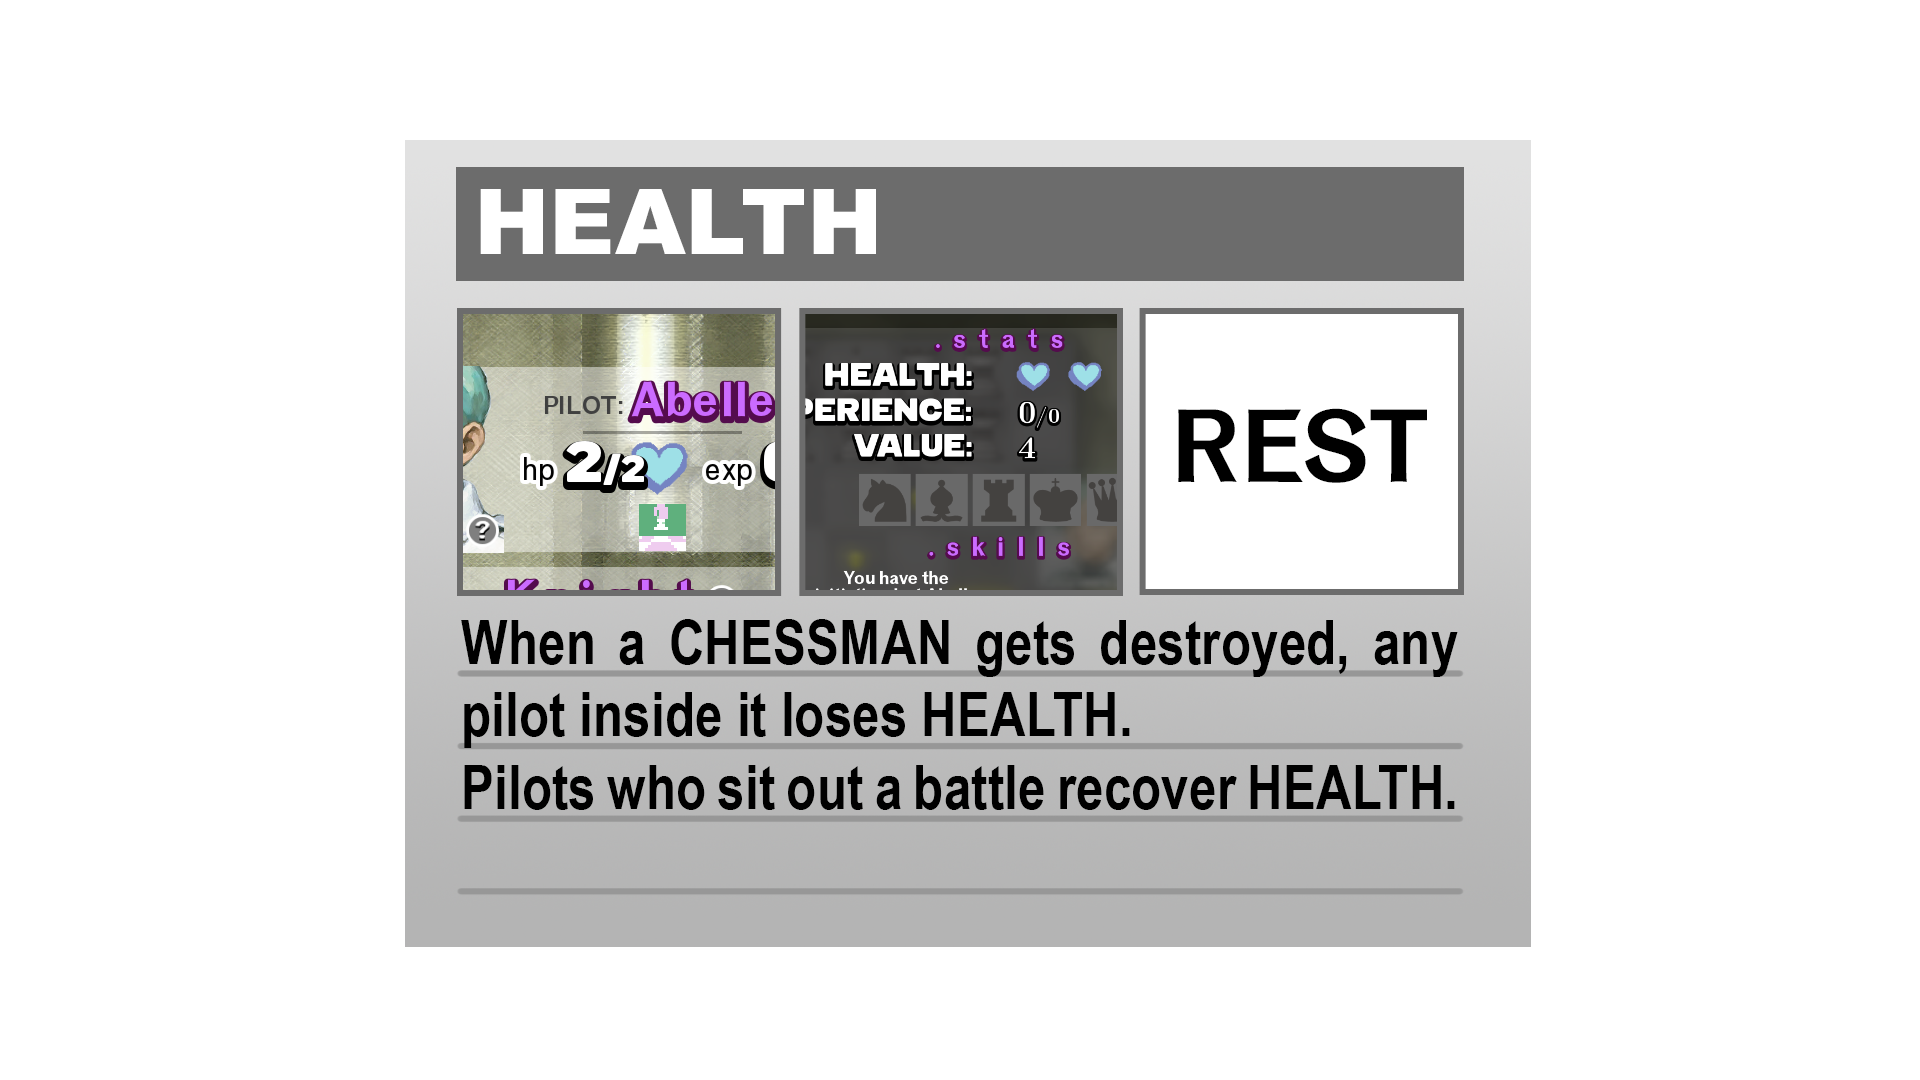
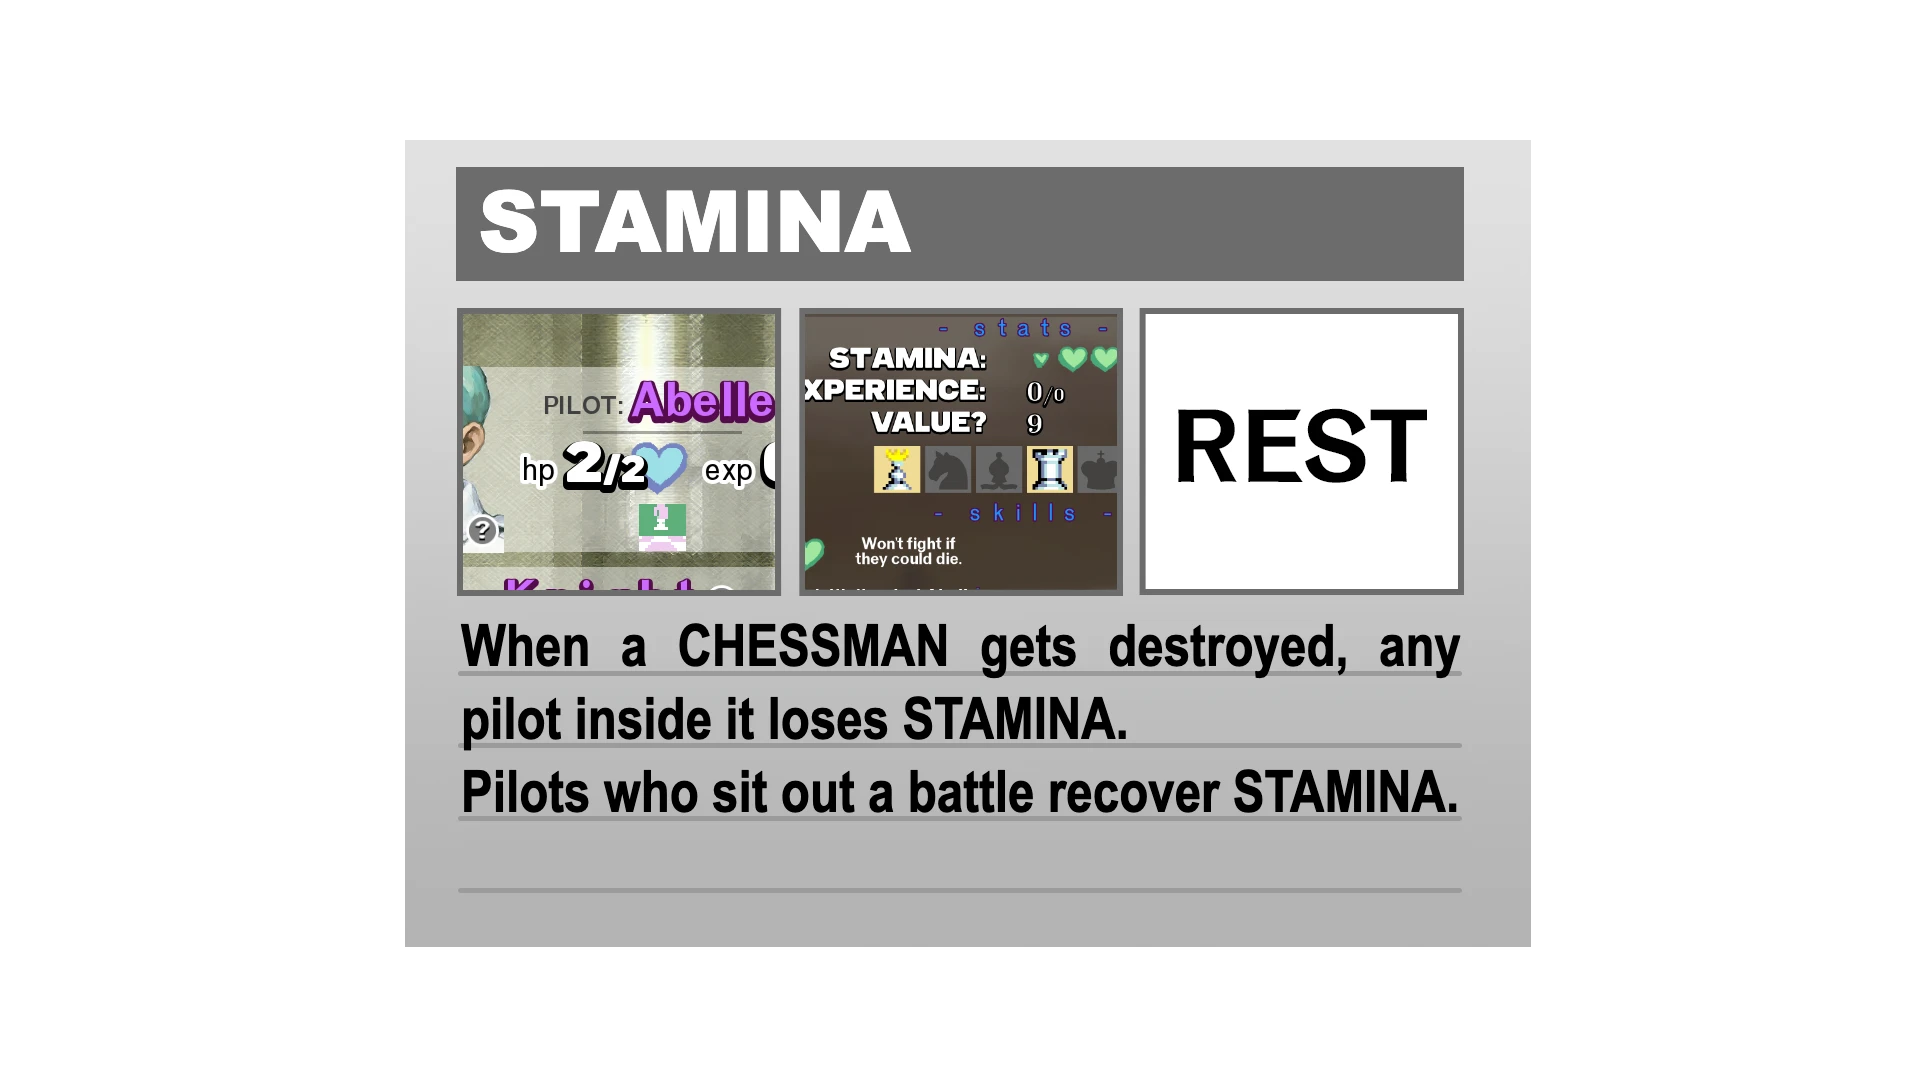
loyalty and trust

Changed region(s): [[0.25, 0.275, 0.7812, 0.7639], [0.25, 0.1528, 0.4688, 0.2444]]

diff --git a/ai_prompt/renforge_playtesting.md b/ai_prompt/renforge_playtesting.md
@@ -1,0 +1,43 @@
+# Playtesting Fairylion Gambit with an AI agent (RenForge)
+
+Notes for an AI agent that drives the game through the RenForge MCP. Tested 2026-11-24 with RenForge 0.7.6 and Ren'Py 8.6.1 on a Retina Mac.
+
+## Launch
+
+`renforge_launch(project_path=<this folder>, version="8.6.1", savedir="temporary")`, then poll `renforge_launch_status`.
+
+- `savedir="temporary"` keeps the real saves (`game/saves`, `~/Library/RenPy/...`) untouched.
+- The first launch downloads the 8.6.1 SDK (about 1 min). The main menu is ready about 2 min after launch.
+- `renforge_jump(target="l_map_0_0", version="8.6.1", savedir="temporary")` restarts the game process at a label in about 6 s. All state is reset: `g.progress` is 0 and `g.items['undo']` is 0, because the map screen's +3 is skipped.
+- Finish with `renforge_stop`, which removes the files RenForge injected into `game/`.
+
+## Input that works
+
+- **Pieces and moves:** `renforge_click_element(element_id="piece_e7")`, then `element_id="move_e3"`.
+- **Buttons** (menu, map flag, say screen): mouse clicks don't work, because they land in the wrong place on a Retina screen and still return ok. Use `renforge_hover_element(element_id=...)` with ids from `renforge_list_ui_elements`, then `renforge_eval("renpy.queue_event('button_select')")`.
+- **Dialogue:** `renforge_advance` works before a battle starts. After you click a piece, keyboard focus stays on that piece, so `advance` does nothing on in-battle dialogue. Hover the `say` screen's button first, then use `renforge_eval("renpy.queue_event(['dismiss','button_select'])")`.
+- **Console:** `renforge_send_input` can't send Shift+O, letters or modifier keys. You rarely need the console because `renforge_eval` does the same job. If you do: open it with `renpy.queue_event('console')` and close it with `renpy.queue_event('console_exit')`. Don't use `send_input(key="esc")`, which opens the Save menu.
+- **Debug overlay ("2" key):** `renpy.queue_event('K_2')`. Note that toggling it resets `g.items['undo']` to 3.
+
+## Reading and setting state
+
+- Read dotted names with eval, for example `repr((g.progress, g.money, g.items, g.state, chess.side))`. `renforge_get_var` rejects dotted names.
+- Set nested values with eval: `g.items.__setitem__('undo', 9)`, then `renpy.restart_interaction()` to redraw the HUD. `renforge_set_var("g.items['undo']", 9)` returns ok but creates a junk variable with that literal name.
+- `renforge_eval` takes expressions only. It fails on `list(`, and a top-level list comprehension fails with `__renpy__list__` not defined. The same comprehension wrapped in `repr((...))` worked, and a tuple of calls always works.
+- Change the position: `(chess.set_fen("..."), engine.copy(chess))`, then `renpy.restart_interaction()` to redraw the board.
+- Board readout (worked as written): `repr(([(p.fen, chess.POS_TO_A8(p.pos)) for p in chess.get_pieces(0)], [str(m) for m in chess.history[-2:]], game.is_over))`. Use `get_pieces(1)` for Black.
+- Wait for the AI's reply: `renforge_wait_until(expr="chess.side == 1 and not chess.wait_for_enemy and 'battle' in g.state and chess.state == 'idle'")`.
+
+## Don't
+
+- `renforge_control(action="reload_script")` (and Shift+R) works since 2026-11-24, when Cubism SDK for Native R5 (Core 06.00.0001) was installed into the user's SDK and into `~/.cache/renforge/sdks/8.6.1/lib/py3-mac-universal/`. Without a Cubism Core 5.3+ library next to the executable, the game segfaults on reload: the first Live2D load fails, but `renpy.gl2.live2dmodel.load()` returns True on later calls, so the rook rig calls a missing Cubism function. If RenForge's SDK cache is wiped, copy `libLive2DCubismCore.dylib` back from the user's SDK `lib/py3-mac-universal/`.
+- Don't post raw pygame events through eval unless needed. A KEYUP without `repeat=False` crashes the game (Ren'Py reads `ev.repeat`).
+- Don't flag "winning 0-0 goes to Mission 0-2" as a bug. Mission 0-1 was cut on purpose.
+
+## Why not computer use
+
+Tested the same day, it doesn't fit agent debugging of this game:
+- A game started with `renpy.sh` can't be granted at all. Started with `renpy.app/Contents/MacOS/renpy <project>` it can.
+- In background mode, screenshots work, but key presses never reach the game and clicks land in the wrong place.
+- Full-screen control works (Shift+O and the console included), but it takes over the user's screen.
+- A manual launch writes into the real `game/saves` even with `RENPY_PATH_TO_SAVES` set.

diff --git a/ai_prompt/prompt.md b/ai_prompt/prompt.md
@@ -108,6 +108,14 @@ Rooms are places in the ship where the player puts pilots to spend a day. Pilots
 Each character can pilot certain robots.
 Each has a STAMINA (`health` in the code, `max_health` in `PILOTS.csv`). It decreases by 1 every time they are captured in battle. Every pilot who doesn't fight rests by default and gets +1 stamina, like in roguelike mode (`pilot.rest()` in `src/roguelike.rpy`). Pilots in the heavy gravity room are the exception.
 
+## Pilot screen (to do later)
+
+The pilot screen (`s_character_info` in `src/PILOT_screen.rpy`) needs tabs:
+
+- Stats: stamina, experience, the Trust stat shown as LOYALTY (for example "LOYALTY: 5 (Good)"), and the icons of the learned skills.
+- Skills: learn new skills and see what each one does (the current "- skills -" and "- learn -" part).
+- Relationships: the pilot's affinity with every other character (see Trust and affinity).
+
 ## Permadeath
 
 Characters can die if they lose all their stamina. Then, when they should talk, the Ren'Py engine skips them (I set up a special condition in the Character arguments).
@@ -130,15 +138,19 @@ Since Trust is lelouch's affinity, it follows the same rules: it goes up when a 
 
 ### Loyalty
 
-Trust sets a loyalty level, and each level has its own color and effect. These thresholds are double the current ones in `TRUST_TO_LOYALTY` (`src/CONSTANTS.rpy`): update the code to match.
+Trust sets a loyalty level, and each level has its own color and effect. Implemented in `src/loyalty.rpy` (`TRUST_TO_LOYALTY`, `loyalty_of()`).
+
+Small hearts show the stamina a pilot won't risk: they can only be deployed with more stamina than that. Pilots with 1 max stamina can't be deployed if their Trust is too low. Show each level's effect in the pilot stats menu as a passive, so the player remembers it.
 
 | Trust | Color | Effect |
 |---|---|---|
-| 20 or more | Red | Trust gains are doubled. |
-| 10 to 19 | Blue | +1 extra stamina each time they recover. Show it in the pilot stats menu as a passive, so the player remembers it. |
-| 2 to 9 | Green | Fights even if they can die. |
-| -10 to 1 | Yellow | Won't fight if they can die: needs at least 2 stamina to be deployed. |
-| below -10 | Grey | 50% chance to leave the group at the start of each day. |
+| 20 or more | Red | Trust gains are doubled. +2 stamina per rest instead of +1. |
+| 10 to 19 | Blue | Normal. |
+| 0 to 9 | Green | Default. Won't fight if they could die: 1 small heart, so they need 2 stamina to be deployed. |
+| -10 to -1 | Yellow | Only fights with full stamina: every heart is small except the last one. |
+| below -10 | Grey | Same as Yellow, and 50% chance to leave the group at the start of each day. |
+
+In roguelite mode, every pilot is locked at Blue (for now `loyalty_of()` returns Blue whenever a roguelite run is active).
 
 A character who leaves goes into `DEAD_OR_DESERT`. Before they leave, a short conversation plays (2 or 3 lines) where the pilot tells lelouch why they're leaving.
 
